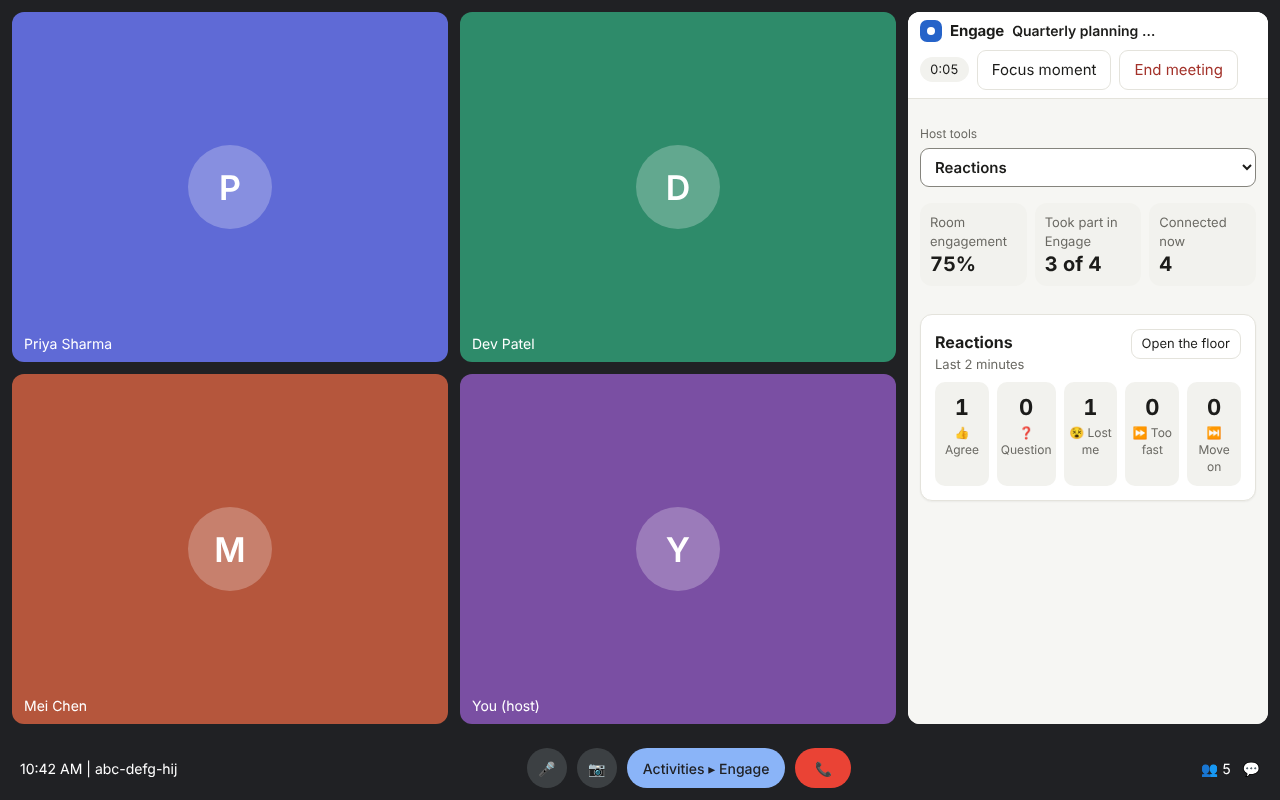
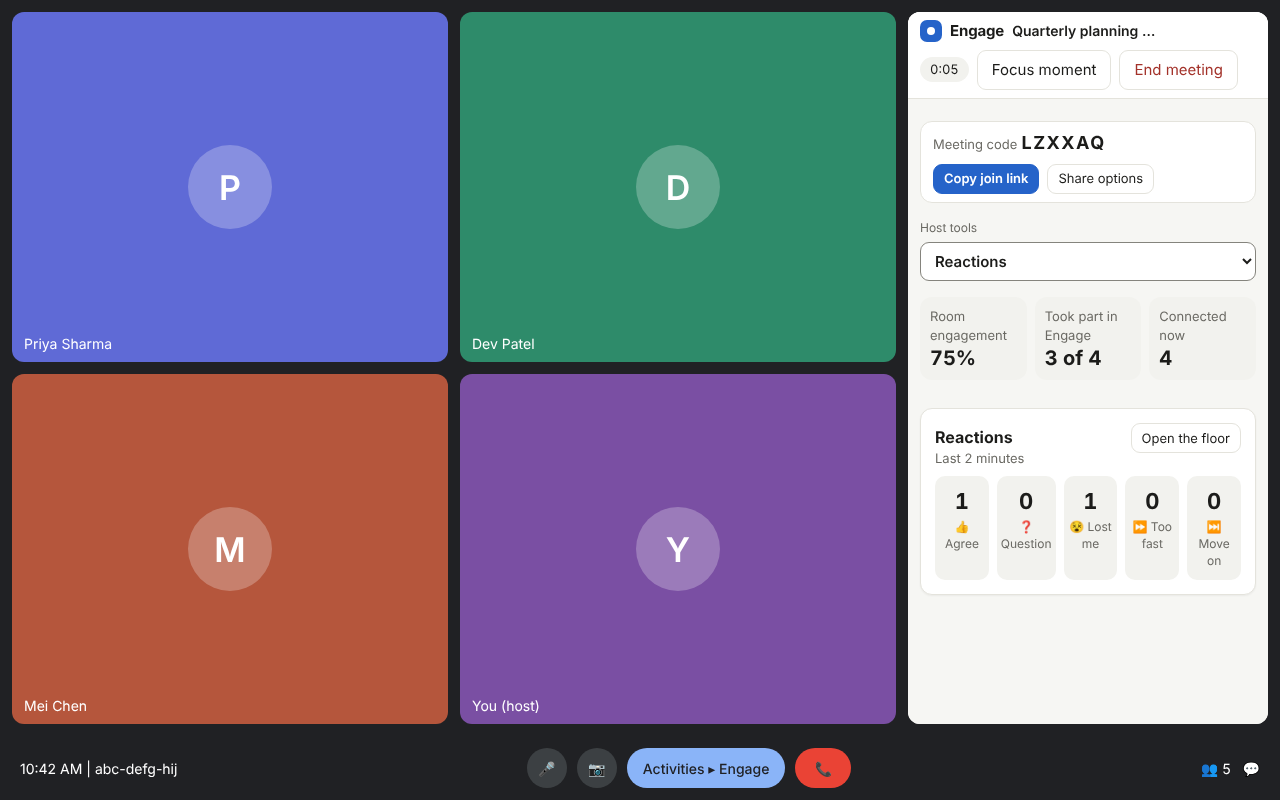
Host panel: always show meeting code and join link, land on Invite after start, reliable copy inside Meet
Claude-Session: https://claude.ai/code/session_01HMG2dDoKgBtQZLgDZz4L91

diff --git a/public/js/host.js b/public/js/host.js
@@ -496,9 +496,23 @@ function renderSummary() {
 async function copy(text, message) {
   try {
     await navigator.clipboard.writeText(text);
-    toast(message);
-  } catch {
-    toast('Copy failed. Select the text and copy it manually.');
+    return toast(message);
+  } catch { /* the clipboard API is blocked inside Meet frames */ }
+  const box = Object.assign(document.createElement('textarea'), { value: text });
+  box.style.cssText = 'position:fixed;opacity:0;top:0;left:0';
+  document.body.append(box);
+  box.select();
+  let copied = false;
+  try { copied = document.execCommand('copy'); } catch { /* ignore */ }
+  box.remove();
+  if (copied) return toast(message);
+  toast('Could not copy. Select the link and copy it by hand.');
+  if (embedded) {
+    showFeature('invite');
+    const range = document.createRange();
+    range.selectNodeContents($('#link'));
+    getSelection().removeAllRanges();
+    getSelection().addRange(range);
   }
 }
 
@@ -733,7 +747,12 @@ if (embedded) {
   $('#feature-bar').hidden = false;
   let saved = null;
   try { saved = sessionStorage.getItem(featureKey); } catch { /* ignore */ }
-  showFeature([...featureSelect.options].some((o) => o.value === saved) ? saved : 'ask');
+  // First time in: land on Invite and share so the host has the code and link in hand.
+  showFeature([...featureSelect.options].some((o) => o.value === saved) ? saved : 'invite');
+  $('#share-strip').hidden = false;
+  $('#strip-code').textContent = code;
+  $('#strip-copy').addEventListener('click', () => copy(link(), 'Join link copied. Paste it in the meeting chat.'));
+  $('#strip-more').addEventListener('click', () => { showFeature('invite'); });
   featureSelect.addEventListener('change', () => showFeature(featureSelect.value));
 
   // The CSV is downloaded on the website after signing in; the meeting is saved to the account.

diff --git a/public/css/styles.css b/public/css/styles.css
@@ -428,3 +428,8 @@ body.prompting .moment-card { border-color: var(--accent); box-shadow: 0 0 0 2px
 .done-note { text-align: center; padding: 18px 12px; }
 .done-note b { display: block; font-size: 18px; margin-bottom: 4px; }
 body.embed #moment-card { order: -1; }
+
+.share-strip { display: none; justify-content: space-between; align-items: center; gap: 8px; flex-wrap: wrap; background: var(--surface); border: 1px solid var(--border); border-radius: 12px; padding: 8px 12px; }
+body.embed .share-strip:not([hidden]) { display: flex; }
+.share-strip .num { font-size: 18px; letter-spacing: 0.08em; }
+#link { user-select: all; overflow-wrap: anywhere; }

diff --git a/public/host.html b/public/host.html
@@ -29,6 +29,11 @@
   <main id="live" class="host-wrap" hidden>
     <div id="banners" class="stack"></div>
 
+    <div class="share-strip" id="share-strip" hidden>
+      <div><span class="small muted">Meeting code</span> <b class="num" id="strip-code"></b></div>
+      <div class="row"><button id="strip-copy" class="small primary">Copy join link</button><button id="strip-more" class="small">Share options</button></div>
+    </div>
+
     <div class="feature-bar" id="feature-bar" hidden>
       <label for="feature">Host tools</label>
       <select id="feature" aria-label="Choose a host tool">
